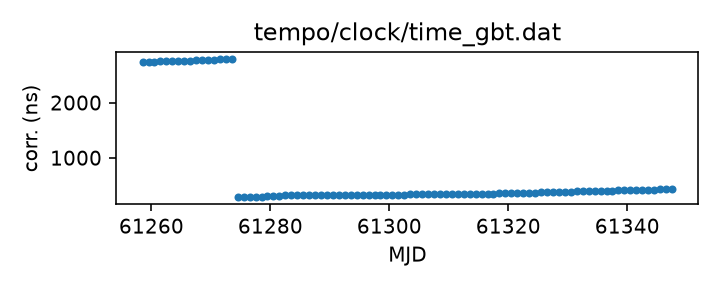
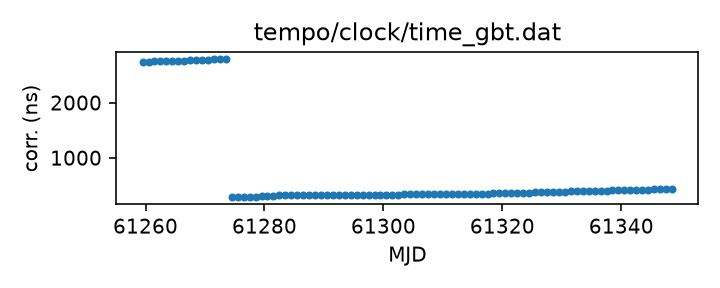
Routine gh-pages update from Github action Fri Nov  6 01:03:48 UTC 2026

diff --git a/status.md b/status.md
@@ -13,18 +13,18 @@ name of each clock file links to a page with more details.
 
 | Name | File | Corrections start | Corrections end | Last check date | Last check result 
 |:--- |:--- | --- | --- | --- |:--- 
-| [GPS to UTC](T2runtime/clock/gps2utc.clk.html) | `T2runtime/clock/gps2utc.clk` | 1993-01-01 MJD 48988.0 | 2026-09-26 MJD 61309.0 | 2026-11-05 | Unchanged 
-| [GPS to UTC (Combined Clock)](T2runtime/clock/gps2utc_cc.clk.html) | `T2runtime/clock/gps2utc_cc.clk` | 1993-01-01 MJD 48988.0 | 2026-09-26 MJD 61309.0 | 2026-11-05 | Unchanged 
-| [GPS to UTC (Corrected)](T2runtime/clock/gps2utc_c0p.clk.html) | `T2runtime/clock/gps2utc_c0p.clk` | 2010-12-29 MJD 55559.0 | 2026-09-26 MJD 61309.0 | 2026-11-05 | Unchanged 
-| [GBT](tempo/clock/time_gbt.dat.html) | `tempo/clock/time_gbt.dat` | 2000-12-31 MJD 51909.5 | 2026-11-03 MJD 61347.5 | 2026-11-05 | Updated 
-| [GBT (TEMPO2 converted from TEMPO)](T2runtime/clock/gbt2gps.clk.html) | `T2runtime/clock/gbt2gps.clk` | 2000-12-31 MJD 51909.5 | 2024-05-18 MJD 60448.5 | 2026-11-05 | **Validation failed** 
+| [GPS to UTC](T2runtime/clock/gps2utc.clk.html) | `T2runtime/clock/gps2utc.clk` | 1993-01-01 MJD 48988.0 | 2026-09-26 MJD 61309.0 | 2026-11-06 | Unchanged 
+| [GPS to UTC (Combined Clock)](T2runtime/clock/gps2utc_cc.clk.html) | `T2runtime/clock/gps2utc_cc.clk` | 1993-01-01 MJD 48988.0 | 2026-09-26 MJD 61309.0 | 2026-11-06 | Unchanged 
+| [GPS to UTC (Corrected)](T2runtime/clock/gps2utc_c0p.clk.html) | `T2runtime/clock/gps2utc_c0p.clk` | 2010-12-29 MJD 55559.0 | 2026-09-26 MJD 61309.0 | 2026-11-06 | Unchanged 
+| [GBT](tempo/clock/time_gbt.dat.html) | `tempo/clock/time_gbt.dat` | 2000-12-31 MJD 51909.5 | 2026-11-04 MJD 61348.5 | 2026-11-06 | Updated 
+| [GBT (TEMPO2 converted from TEMPO)](T2runtime/clock/gbt2gps.clk.html) | `T2runtime/clock/gbt2gps.clk` | 2000-12-31 MJD 51909.5 | 2024-05-18 MJD 60448.5 | 2026-11-06 | **Validation failed** 
 | [Jodrell Bank](T2runtime/clock/jb2gps.clk.html) | `T2runtime/clock/jb2gps.clk` | 2006-10-13 MJD 54021.4 | 2026-04-17 MJD 61147.0 | 2026-11-04 | Unchanged 
 | [Jodrell Bank Roach](T2runtime/clock/jbroach2jb.clk.html) | `T2runtime/clock/jbroach2jb.clk` | 2006-10-13 MJD 54021.4 | 2018-03-20 MJD 58197.6 | 2026-11-01 | Unchanged 
 | [Jodrell Bank DFB](T2runtime/clock/jbdfb2jb.clk.html) | `T2runtime/clock/jbdfb2jb.clk` | 2006-10-13 MJD 54021.4 | 2021-02-22 MJD 59268.0 | 2026-11-01 | Unchanged 
 | [Meerkat (observatory)](T2runtime/clock/mk2utc_observatory.clk.html) | `T2runtime/clock/mk2utc_observatory.clk` | 2019-01-01 MJD 58484.0 | 2026-04-10 MJD 61141.0 | 2026-11-01 | **Validation failed** 
-| [Leap seconds](tempo/clock/leap.sec.html) | `tempo/clock/leap.sec` | 1972-07-01 MJD 41499.0 | 2017-01-01 MJD 57754.0 | 2026-11-05 | Unchanged 
-| [UT1 table](tempo/clock/ut1.dat.html) | `tempo/clock/ut1.dat` | 1973-01-02 MJD 41684.0 | 2027-10-29 MJD 61707.0 | 2026-11-05 | Unchanged 
-| [UT1 table](T2runtime/clock/ut1.dat.html) | `T2runtime/clock/ut1.dat` | 1973-01-02 MJD 41684.0 | 2027-10-29 MJD 61707.0 | 2026-11-05 | Unchanged 
+| [Leap seconds](tempo/clock/leap.sec.html) | `tempo/clock/leap.sec` | 1972-07-01 MJD 41499.0 | 2017-01-01 MJD 57754.0 | 2026-11-06 | Unchanged 
+| [UT1 table](tempo/clock/ut1.dat.html) | `tempo/clock/ut1.dat` | 1973-01-02 MJD 41684.0 | 2027-10-29 MJD 61707.0 | 2026-11-06 | Unchanged 
+| [UT1 table](T2runtime/clock/ut1.dat.html) | `T2runtime/clock/ut1.dat` | 1973-01-02 MJD 41684.0 | 2027-10-29 MJD 61707.0 | 2026-11-06 | Unchanged 
 
 
 

diff --git a/T2runtime/clock/gbt2gps.clk.md b/T2runtime/clock/gbt2gps.clk.md
@@ -25,12 +25,11 @@ If questions arise about the conversion, contact Anne Archibald
 | Clock file start | 2000-12-31 MJD 51909.5 |
 | Clock file end | 2024-05-18 MJD 60448.5 |
 | Update interval (days) | 1 |
-| Last update attempt | 2026-11-05 |
+| Last update attempt | 2026-11-06 |
 | Last update result | Validation failed |
 
 Log entries from the last few update attempts:
 ```
-2026-10-27 00:01:13.066 - Validation failed: New version of T2runtime/clock/gbt2gps.clk MJDs differ from old version where they overlap in 8407 places
 2026-10-27 23:55:43.626 - Validation failed: New version of T2runtime/clock/gbt2gps.clk MJDs differ from old version where they overlap in 8407 places
 2026-10-29 00:09:16.649 - Validation failed: New version of T2runtime/clock/gbt2gps.clk MJDs differ from old version where they overlap in 8407 places
 2026-10-30 00:04:14.702 - Validation failed: New version of T2runtime/clock/gbt2gps.clk MJDs differ from old version where they overlap in 8407 places
@@ -40,6 +39,7 @@ Log entries from the last few update attempts:
 2026-11-03 02:32:09.960 - Validation failed: New version of T2runtime/clock/gbt2gps.clk MJDs differ from old version where they overlap in 8407 places
 2026-11-04 00:42:50.106 - Validation failed: New version of T2runtime/clock/gbt2gps.clk MJDs differ from old version where they overlap in 8407 places
 2026-11-05 01:01:05.251 - Validation failed: New version of T2runtime/clock/gbt2gps.clk MJDs differ from old version where they overlap in 8407 places
+2026-11-06 01:03:31.960 - Validation failed: New version of T2runtime/clock/gbt2gps.clk MJDs differ from old version where they overlap in 8407 places
 ```
 [Full log](https://raw.githubusercontent.com/ipta/pulsar-clock-corrections/main/log/T2runtime/clock/gbt2gps.clk.log)
 

diff --git a/tempo/clock/time_gbt.dat.md b/tempo/clock/time_gbt.dat.md
@@ -36,14 +36,13 @@ If questions arise, contact Ryan S. Lynch <rlynch@nrao.edu>.
 | Format | tempo |
 | Bogus last correction | False |
 | Clock file start | 2000-12-31 MJD 51909.5 |
-| Clock file end | 2026-11-03 MJD 61347.5 |
+| Clock file end | 2026-11-04 MJD 61348.5 |
 | Update interval (days) | 1 |
-| Last update attempt | 2026-11-05 |
+| Last update attempt | 2026-11-06 |
 | Last update result | Updated |
 
 Log entries from the last few update attempts:
 ```
-2026-10-25 22:44:14.631 - Updated
 2026-10-27 00:01:12.972 - Updated
 2026-10-27 23:55:43.535 - Updated
 2026-10-29 00:09:16.557 - Updated
@@ -53,12 +52,13 @@ Log entries from the last few update attempts:
 2026-11-01 23:46:21.189 - Updated
 2026-11-03 02:32:09.867 - Updated
 2026-11-05 01:01:05.155 - Updated
+2026-11-06 01:03:31.873 - Updated
 ```
 [Full log](https://raw.githubusercontent.com/ipta/pulsar-clock-corrections/main/log/tempo/clock/time_gbt.dat.log)
 
 Leading comments from clock file:
 
-     -2740.50       0.0        -0.503 1    32767-dec
+     -2740.50       0.0        -0.503 1    32764-dec
      -2612.50       0.0        -0.503 1    00-dec-00
 
 

diff --git a/T2runtime/clock/gps2utc_c0p.clk.md b/T2runtime/clock/gps2utc_c0p.clk.md
@@ -30,12 +30,11 @@ about the BIPM's published corrections, contact <tai@bipm.org>.
 | Clock file start | 2010-12-29 MJD 55559.0 |
 | Clock file end | 2026-09-26 MJD 61309.0 |
 | Update interval (days) | 1 |
-| Last update attempt | 2026-11-05 |
+| Last update attempt | 2026-11-06 |
 | Last update result | Unchanged |
 
 Log entries from the last few update attempts:
 ```
-2026-10-25 22:44:13.858 - Unchanged
 2026-10-27 00:01:12.631 - Unchanged
 2026-10-27 23:55:42.734 - Unchanged
 2026-10-29 00:09:15.390 - Unchanged
@@ -45,6 +44,7 @@ Log entries from the last few update attempts:
 2026-11-01 23:46:20.474 - Unchanged
 2026-11-03 02:32:08.929 - Unchanged
 2026-11-05 01:01:04.853 - Unchanged
+2026-11-06 01:03:31.303 - Unchanged
 ```
 [Full log](https://raw.githubusercontent.com/ipta/pulsar-clock-corrections/main/log/T2runtime/clock/gps2utc_c0p.clk.log)
 

diff --git a/T2runtime/clock/gps2utc_cc.clk.md b/T2runtime/clock/gps2utc_cc.clk.md
@@ -29,12 +29,11 @@ about the BIPM's published corrections, contact <tai@bipm.org>.
 | Clock file start | 1993-01-01 MJD 48988.0 |
 | Clock file end | 2026-09-26 MJD 61309.0 |
 | Update interval (days) | 1 |
-| Last update attempt | 2026-11-05 |
+| Last update attempt | 2026-11-06 |
 | Last update result | Unchanged |
 
 Log entries from the last few update attempts:
 ```
-2026-10-25 22:44:13.849 - Unchanged
 2026-10-27 00:01:12.623 - Unchanged
 2026-10-27 23:55:42.726 - Unchanged
 2026-10-29 00:09:15.381 - Unchanged
@@ -44,6 +43,7 @@ Log entries from the last few update attempts:
 2026-11-01 23:46:20.469 - Unchanged
 2026-11-03 02:32:08.921 - Unchanged
 2026-11-05 01:01:04.844 - Unchanged
+2026-11-06 01:03:31.295 - Unchanged
 ```
 [Full log](https://raw.githubusercontent.com/ipta/pulsar-clock-corrections/main/log/T2runtime/clock/gps2utc_cc.clk.log)
 

diff --git a/T2runtime/clock/gps2utc.clk.md b/T2runtime/clock/gps2utc.clk.md
@@ -32,12 +32,11 @@ about the BIPM's published corrections, contact <tai@bipm.org>.
 | Clock file start | 1993-01-01 MJD 48988.0 |
 | Clock file end | 2026-09-26 MJD 61309.0 |
 | Update interval (days) | 1 |
-| Last update attempt | 2026-11-05 |
+| Last update attempt | 2026-11-06 |
 | Last update result | Unchanged |
 
 Log entries from the last few update attempts:
 ```
-2026-10-25 22:44:13.827 - Unchanged
 2026-10-27 00:01:12.600 - Unchanged
 2026-10-27 23:55:42.703 - Unchanged
 2026-10-29 00:09:15.358 - Unchanged
@@ -47,6 +46,7 @@ Log entries from the last few update attempts:
 2026-11-01 23:46:20.457 - Unchanged
 2026-11-03 02:32:08.898 - Unchanged
 2026-11-05 01:01:04.822 - Unchanged
+2026-11-06 01:03:31.273 - Unchanged
 ```
 [Full log](https://raw.githubusercontent.com/ipta/pulsar-clock-corrections/main/log/T2runtime/clock/gps2utc.clk.log)
 

diff --git a/T2runtime/clock/ut1.dat.md b/T2runtime/clock/ut1.dat.md
@@ -30,12 +30,11 @@ If there are any questions, contact Anne Archibald
 | File start | 1973-01-02 MJD 41684.0 |
 | File end | 2027-10-29 MJD 61707.0 |
 | Update interval (days) | 0 |
-| Last update attempt | 2026-11-05 |
+| Last update attempt | 2026-11-06 |
 | Last update result | Unchanged |
 
 Log entries from the last few update attempts:
 ```
-2026-10-27 00:01:13.690 - Unchanged
 2026-10-27 23:55:45.410 - Unchanged
 2026-10-29 00:09:17.264 - Unchanged
 2026-10-30 00:04:15.386 - Unchanged
@@ -45,5 +44,6 @@ Log entries from the last few update attempts:
 2026-11-03 02:32:10.622 - Updated
 2026-11-04 00:42:51.631 - Unchanged
 2026-11-05 01:01:05.920 - Unchanged
+2026-11-06 01:03:32.566 - Unchanged
 ```
 [Full log](https://raw.githubusercontent.com/ipta/pulsar-clock-corrections/main/log/T2runtime/clock/ut1.dat.log)

diff --git a/tempo/clock/leap.sec.md b/tempo/clock/leap.sec.md
@@ -21,12 +21,11 @@ If there are any questions, contact Anne Archibald
 | File start | 1972-07-01 MJD 41499.0 |
 | File end | 2017-01-01 MJD 57754.0 |
 | Update interval (days) | 0 |
-| Last update attempt | 2026-11-05 |
+| Last update attempt | 2026-11-06 |
 | Last update result | Unchanged |
 
 Log entries from the last few update attempts:
 ```
-2026-10-27 00:01:13.092 - Unchanged
 2026-10-27 23:55:44.826 - Unchanged
 2026-10-29 00:09:16.676 - Unchanged
 2026-10-30 00:04:14.730 - Unchanged
@@ -36,5 +35,6 @@ Log entries from the last few update attempts:
 2026-11-03 02:32:09.987 - Unchanged
 2026-11-04 00:42:51.036 - Unchanged
 2026-11-05 01:01:05.277 - Unchanged
+2026-11-06 01:03:31.984 - Unchanged
 ```
 [Full log](https://raw.githubusercontent.com/ipta/pulsar-clock-corrections/main/log/tempo/clock/leap.sec.log)

diff --git a/tempo/clock/ut1.dat.md b/tempo/clock/ut1.dat.md
@@ -30,12 +30,11 @@ If there are any questions, contact Anne Archibald
 | File start | 1973-01-02 MJD 41684.0 |
 | File end | 2027-10-29 MJD 61707.0 |
 | Update interval (days) | 0 |
-| Last update attempt | 2026-11-05 |
+| Last update attempt | 2026-11-06 |
 | Last update result | Unchanged |
 
 Log entries from the last few update attempts:
 ```
-2026-10-27 00:01:13.639 - Unchanged
 2026-10-27 23:55:45.362 - Unchanged
 2026-10-29 00:09:17.215 - Unchanged
 2026-10-30 00:04:15.336 - Unchanged
@@ -45,5 +44,6 @@ Log entries from the last few update attempts:
 2026-11-03 02:32:10.571 - Updated
 2026-11-04 00:42:51.579 - Unchanged
 2026-11-05 01:01:05.870 - Unchanged
+2026-11-06 01:03:32.521 - Unchanged
 ```
 [Full log](https://raw.githubusercontent.com/ipta/pulsar-clock-corrections/main/log/tempo/clock/ut1.dat.log)
